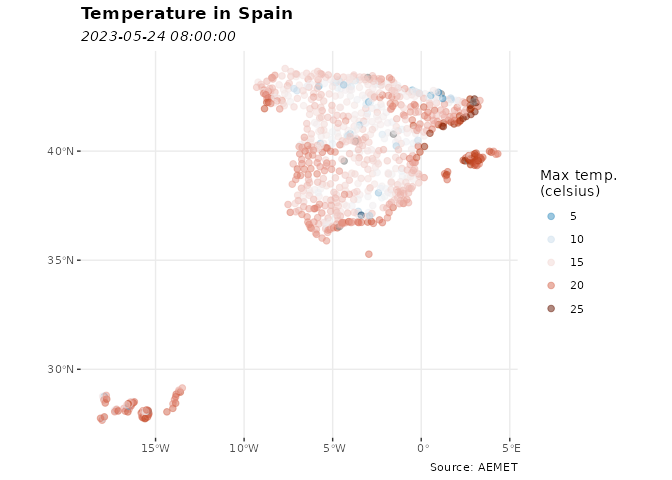
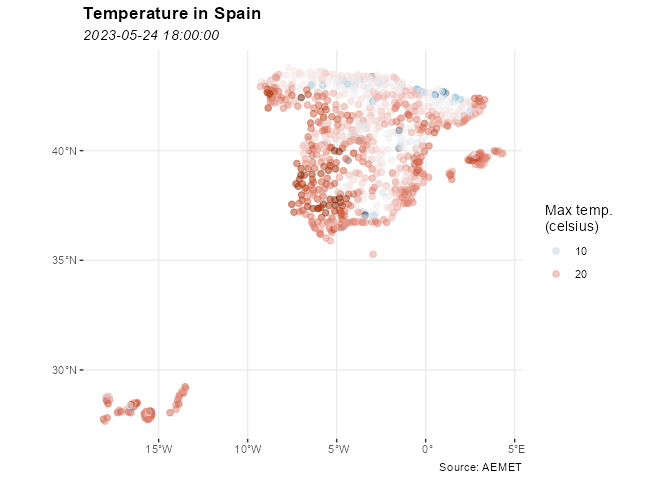
Prepare CRAN release

diff --git a/README.md b/README.md
@@ -123,16 +123,16 @@ aemet_last_obs("9434")
 #> # A tibble: 23 × 25
 #>    idema   lon fint                 prec   alt  vmax    vv    dv   lat  dmax
 #>    <chr> <dbl> <dttm>              <dbl> <dbl> <dbl> <dbl> <dbl> <dbl> <dbl>
-#>  1 9434  -1.00 2023-05-24 08:00:00     0   249   7.6   5.6   308  41.7   310
-#>  2 9434  -1.00 2023-05-24 09:00:00     0   249   8.1   5.1   315  41.7   298
-#>  3 9434  -1.00 2023-05-24 10:00:00     0   249   8.3   4.1   313  41.7   328
-#>  4 9434  -1.00 2023-05-24 11:00:00     0   249   8.2   4.2   310  41.7   315
-#>  5 9434  -1.00 2023-05-24 12:00:00     0   249   7.3   3.1   304  41.7   305
-#>  6 9434  -1.00 2023-05-24 13:00:00     0   249   6.7   2     249  41.7   300
-#>  7 9434  -1.00 2023-05-24 14:00:00     0   249   6.4   4.6   301  41.7   303
-#>  8 9434  -1.00 2023-05-24 15:00:00     0   249  11.7   7.7   323  41.7   313
-#>  9 9434  -1.00 2023-05-24 16:00:00     0   249  12.3   7.2   326  41.7   318
-#> 10 9434  -1.00 2023-05-24 17:00:00     0   249  10.6   5.9   314  41.7   308
+#>  1 9434  -1.00 2023-05-24 18:00:00     0   249   8.2   5     314  41.7   318
+#>  2 9434  -1.00 2023-05-24 19:00:00     0   249   8.2   4.9   323  41.7   313
+#>  3 9434  -1.00 2023-05-24 20:00:00     0   249   8.6   4.1   326  41.7   318
+#>  4 9434  -1.00 2023-05-24 21:00:00     0   249   7.8   5     322  41.7   320
+#>  5 9434  -1.00 2023-05-24 22:00:00     0   249   9.5   6.7   314  41.7   315
+#>  6 9434  -1.00 2023-05-24 23:00:00     0   249  10.7   7.7   304  41.7   305
+#>  7 9434  -1.00 2023-05-25 00:00:00     0   249  11.1   7.6   310  41.7   323
+#>  8 9434  -1.00 2023-05-25 01:00:00     0   249  11.3   7.3   300  41.7   308
+#>  9 9434  -1.00 2023-05-25 02:00:00     0   249   8.9   5.8   302  41.7   295
+#> 10 9434  -1.00 2023-05-25 03:00:00     0   249   9.1   6     307  41.7   293
 #> # ℹ 13 more rows
 #> # ℹ 15 more variables: ubi <chr>, pres <dbl>, hr <dbl>, stdvv <dbl>, ts <dbl>,
 #> #   pres_nmar <dbl>, tamin <dbl>, ta <dbl>, tamax <dbl>, tpr <dbl>,
@@ -172,12 +172,12 @@ knitr::kable(head(data_observation))
 
 | idema |       lon | fint                | prec | alt | vmax |  vv |  dv |      lat | dmax | ubi                 |  pres |  hr | stdvv |   ts | pres_nmar | tamin |   ta | tamax |  tpr | stddv | inso | tss5cm | pacutp | tss20cm |
 |:------|----------:|:--------------------|-----:|----:|-----:|----:|----:|---------:|-----:|:--------------------|------:|----:|------:|-----:|----------:|------:|-----:|------:|-----:|------:|-----:|-------:|-------:|--------:|
-| 9434  | -1.004167 | 2023-05-24 08:00:00 |    0 | 249 |  7.6 | 5.6 | 308 | 41.66056 |  310 | ZARAGOZA AEROPUERTO | 987.0 |  74 |   0.6 | 20.6 |    1016.5 |  16.6 | 18.0 |  18.0 | 13.3 |     9 |   60 |   19.7 |      0 |    21.5 |
-| 9434  | -1.004167 | 2023-05-24 09:00:00 |    0 | 249 |  8.1 | 5.1 | 315 | 41.66056 |  298 | ZARAGOZA AEROPUERTO | 986.9 |  65 |   0.7 | 22.7 |    1016.2 |  18.0 | 19.8 |  22.3 | 13.1 |    10 |   60 |   21.1 |      0 |    21.4 |
-| 9434  | -1.004167 | 2023-05-24 10:00:00 |    0 | 249 |  8.3 | 4.1 | 313 | 41.66056 |  328 | ZARAGOZA AEROPUERTO | 986.4 |  61 |   1.1 | 25.6 |    1015.5 |  19.5 | 21.0 |  21.1 | 13.2 |    13 |   60 |   23.3 |      0 |    21.4 |
-| 9434  | -1.004167 | 2023-05-24 11:00:00 |    0 | 249 |  8.2 | 4.2 | 310 | 41.66056 |  315 | ZARAGOZA AEROPUERTO | 986.1 |  54 |   0.7 | 27.7 |    1015.1 |  21.0 | 22.6 |  22.6 | 12.8 |    14 |   60 |   25.6 |      0 |    21.5 |
-| 9434  | -1.004167 | 2023-05-24 12:00:00 |    0 | 249 |  7.3 | 3.1 | 304 | 41.66056 |  305 | ZARAGOZA AEROPUERTO | 985.5 |  46 |   0.7 | 29.7 |    1014.3 |  22.6 | 24.3 |  24.3 | 11.9 |    22 |   60 |   28.1 |      0 |    21.8 |
-| 9434  | -1.004167 | 2023-05-24 13:00:00 |    0 | 249 |  6.7 | 2.0 | 249 | 41.66056 |  300 | ZARAGOZA AEROPUERTO | 984.7 |  38 |   1.0 | 30.2 |    1013.3 |  24.2 | 25.6 |  25.6 | 10.2 |    43 |   60 |   30.3 |      0 |    22.2 |
+| 9434  | -1.004167 | 2023-05-24 18:00:00 |    0 | 249 |  8.2 | 5.0 | 314 | 41.66056 |  318 | ZARAGOZA AEROPUERTO | 984.7 |  49 |   1.1 | 24.4 |    1013.6 |  22.7 | 22.8 |  23.4 | 11.6 |    10 |    0 |   28.4 |      0 |    25.2 |
+| 9434  | -1.004167 | 2023-05-24 19:00:00 |    0 | 249 |  8.2 | 4.9 | 323 | 41.66056 |  313 | ZARAGOZA AEROPUERTO | 985.7 |  52 |   0.9 | 22.9 |    1014.7 |  22.1 | 22.1 |  22.9 | 11.8 |    11 |    0 |   27.1 |      0 |    25.4 |
+| 9434  | -1.004167 | 2023-05-24 20:00:00 |    0 | 249 |  8.6 | 4.1 | 326 | 41.66056 |  318 | ZARAGOZA AEROPUERTO | 986.6 |  59 |   0.8 | 20.5 |    1015.8 |  20.0 | 20.0 |  22.1 | 11.8 |    12 |    0 |   26.0 |      0 |    25.5 |
+| 9434  | -1.004167 | 2023-05-24 21:00:00 |    0 | 249 |  7.8 | 5.0 | 322 | 41.66056 |  320 | ZARAGOZA AEROPUERTO | 987.6 |  62 |   0.9 | 19.4 |    1017.0 |  18.7 | 18.7 |  20.0 | 11.2 |     9 |    0 |   25.0 |      0 |    25.5 |
+| 9434  | -1.004167 | 2023-05-24 22:00:00 |    0 | 249 |  9.5 | 6.7 | 314 | 41.66056 |  315 | ZARAGOZA AEROPUERTO | 987.7 |  64 |   1.1 | 17.8 |    1017.3 |  17.4 | 17.4 |  18.7 | 10.5 |     9 |    0 |   23.9 |      0 |    25.4 |
+| 9434  | -1.004167 | 2023-05-24 23:00:00 |    0 | 249 | 10.7 | 7.7 | 304 | 41.66056 |  305 | ZARAGOZA AEROPUERTO | 987.8 |  65 |   0.9 | 17.5 |    1017.4 |  17.1 | 17.2 |  17.5 | 10.5 |     6 |    0 |   23.0 |      0 |    25.2 |
 
 ``` r
 

diff --git a/NEWS.md b/NEWS.md
@@ -1,7 +1,6 @@
-# climaemet (development version)
+# climaemet 1.1.1
 
 -   Fix an error on the conversion to **sf** objects.
-
 -   Documentation improvements.
 
 # climaemet 1.1.0
